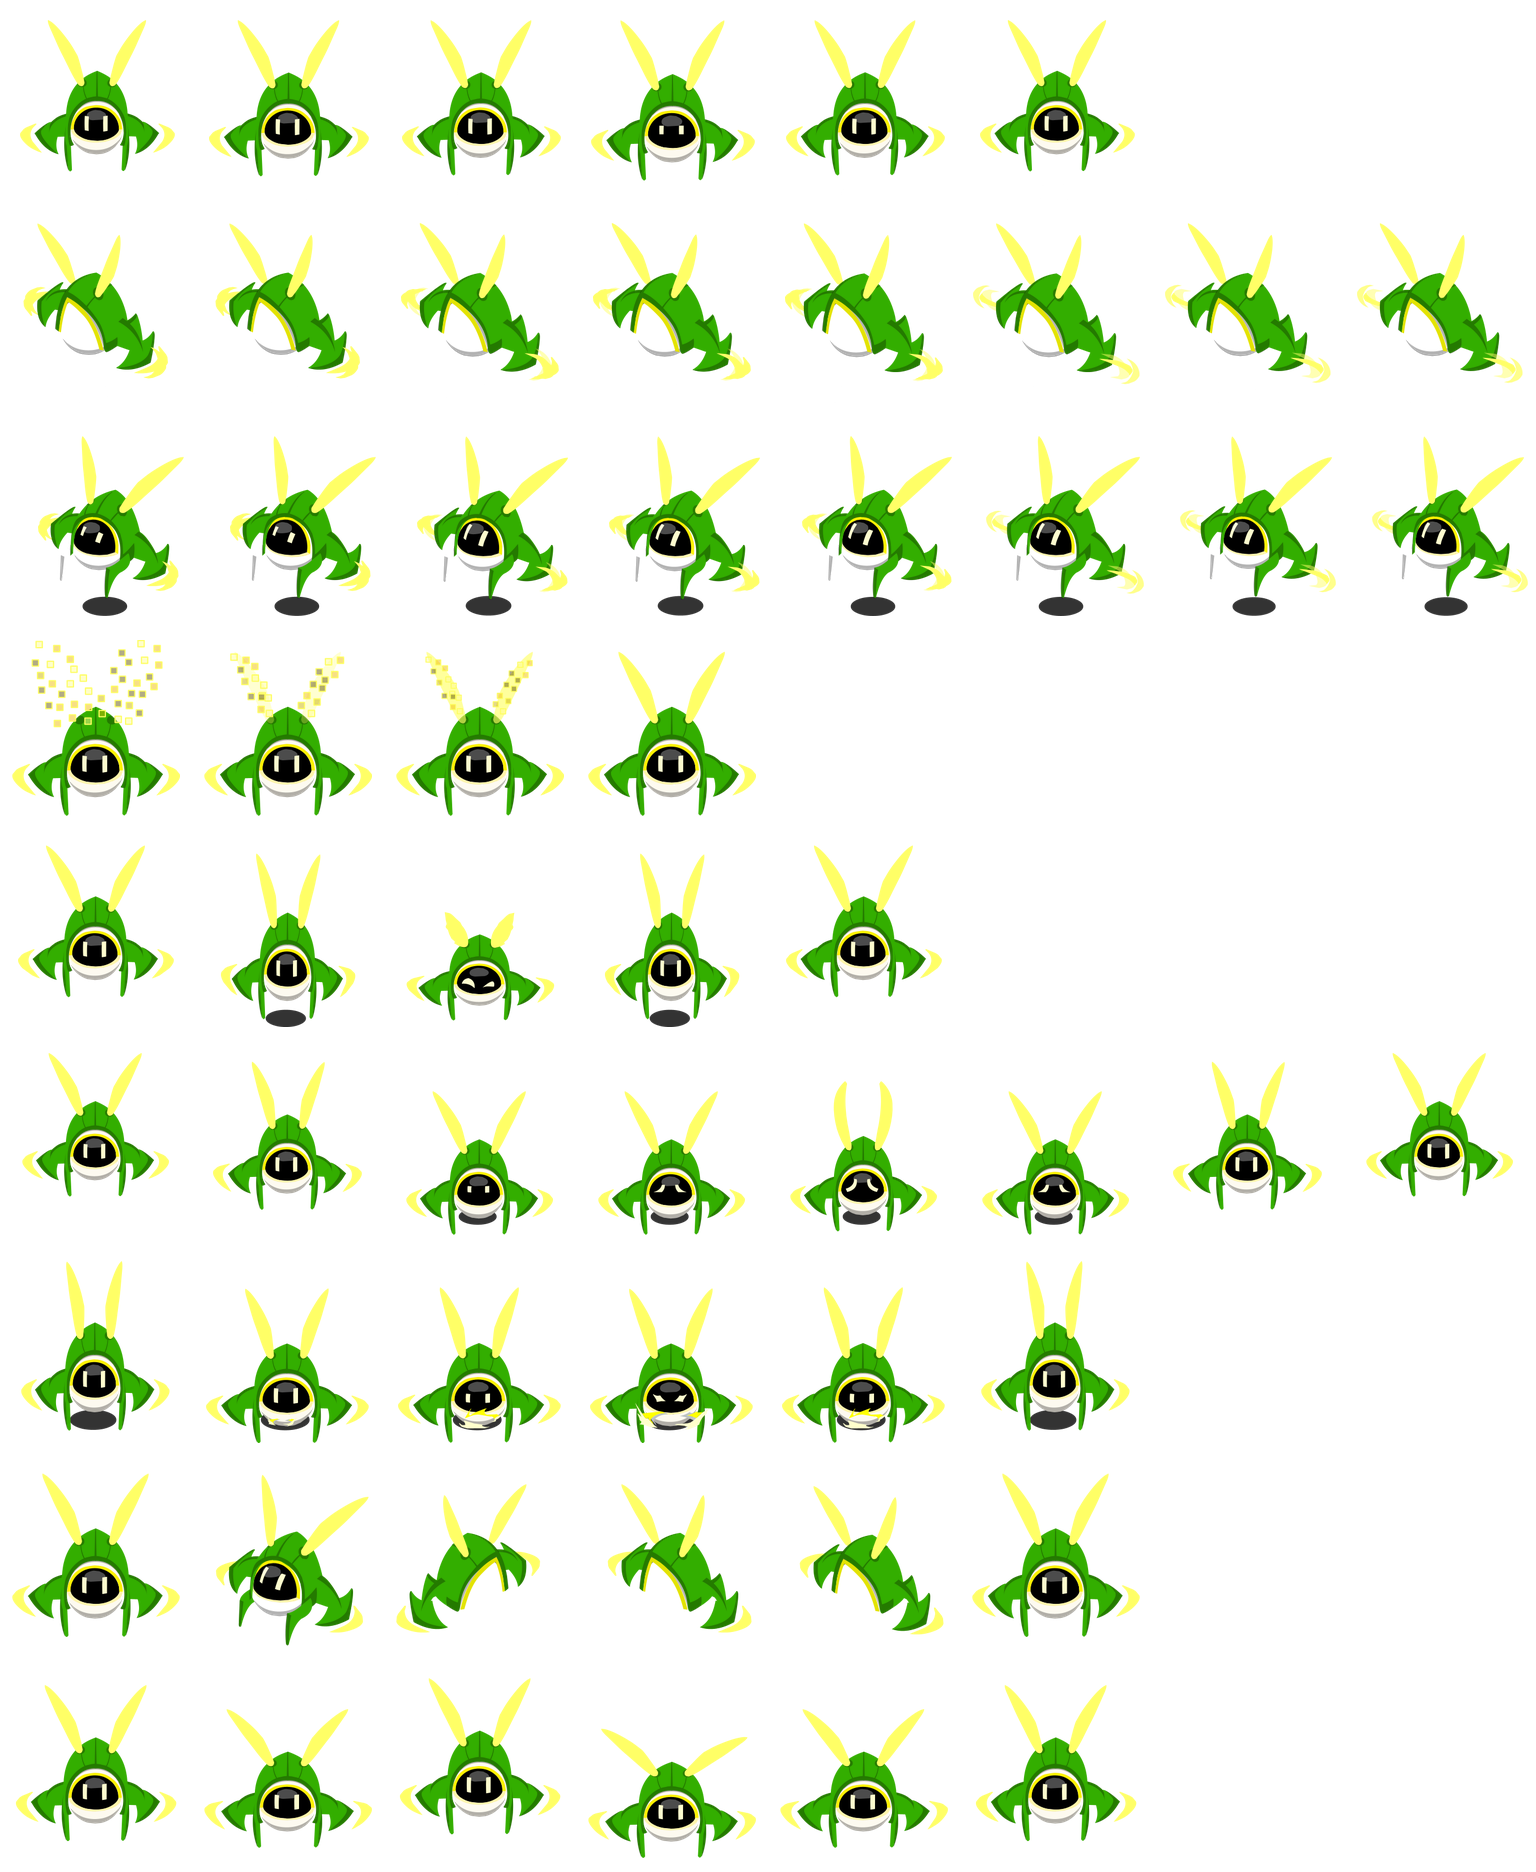
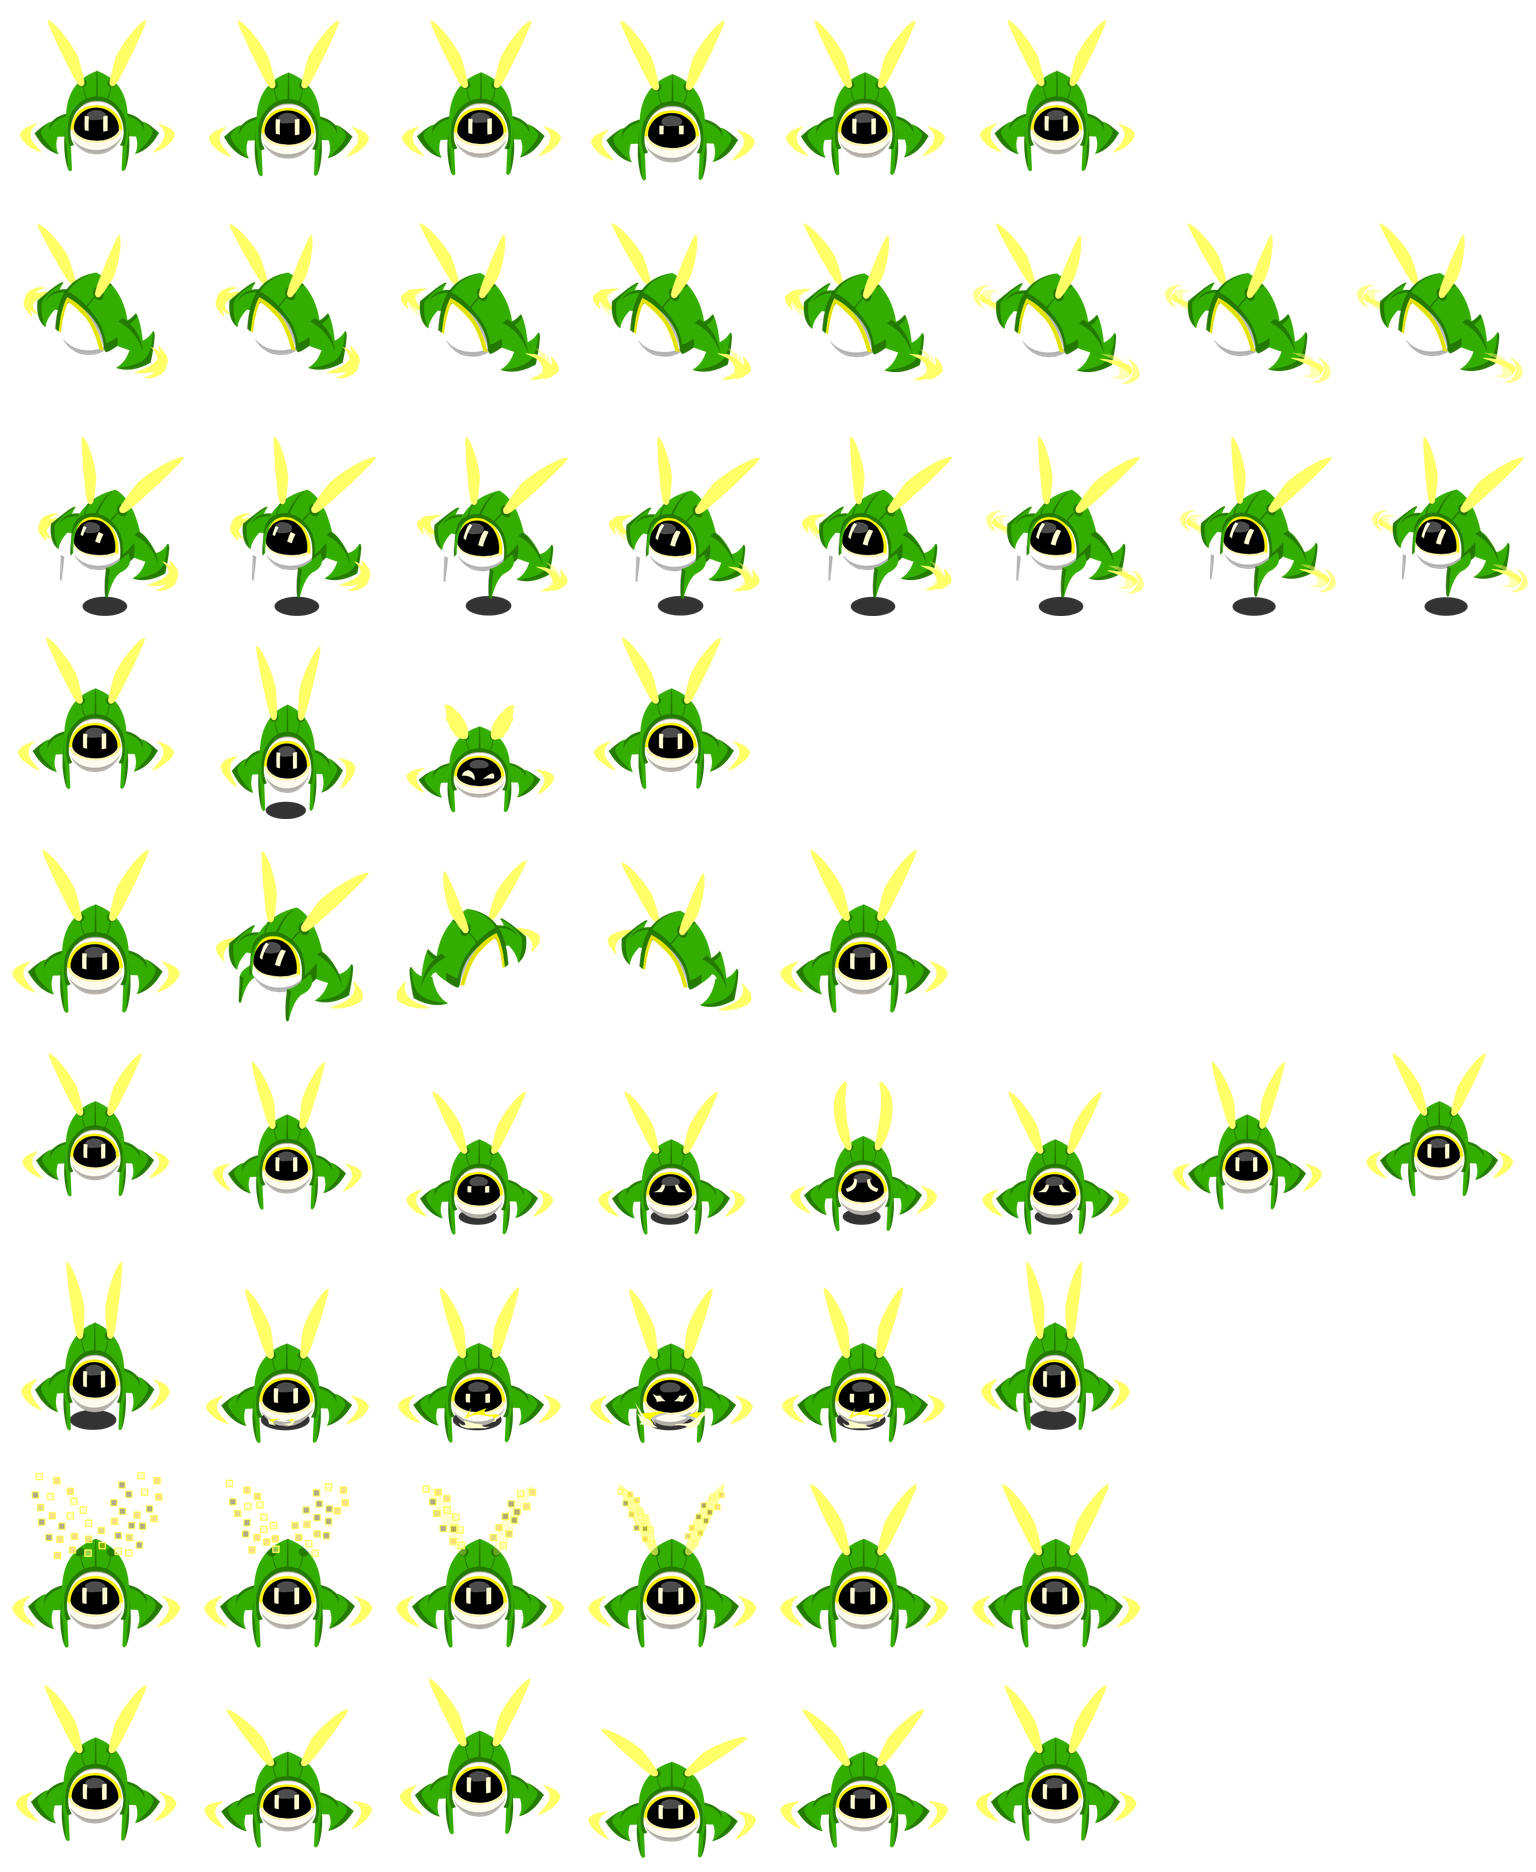
Rotate Annual NoNo work greeting and hover animations

Changed region(s): [[0.0, 0.3408, 0.625, 0.5577], [0.0, 0.7746, 0.75, 0.8985]]

diff --git a/index.html b/index.html
@@ -25,4 +25,4 @@
     <section class="install" id="ram-install"><details><summary>安装说明</summary><div class="install-content"><ol><li><span>1</span><div><h3>解压宠物包</h3><p>得到一个含有 <code>pet.json</code> 和 <code>spritesheet.png</code> 的拉姆文件夹。</p></div></li><li><span>2</span><div><h3>放进 Codex 的 pets 文件夹</h3><p>macOS / Linux：<code>~/.codex/pets/</code><br>Windows：<code>%USERPROFILE%\.codex\pets\</code><br>若设置过 <code>CODEX_HOME</code>，请使用它下面的 <code>pets</code> 文件夹。</p></div></li><li><span>3</span><div><h3>在设置里选中它</h3><p>打开 Codex 的「设置 → Pets / 宠物」，刷新列表后选择拉姆。输入 <code>/pet</code> 唤出它。</p></div></li></ol><button class="copy-button" id="ram-copy-prompt">复制安装提示词</button><p class="install-note">也可以将下载的精灵图上传到支持「Upload pet」的宠物界面。<a href="https://learn.chatgpt.com/docs/pets" target="_blank" rel="noreferrer">官方说明 ↗</a></p></div></details></section>
 </div><div id="nono-panel" role="tabpanel" aria-labelledby="tab-nono" hidden><section class="workbench" aria-label="超能NoNo宠物预览"><div class="preview-panel" id="nono-preview-panel"><div class="preview-top"><span class="caps">安装效果预览</span><button id="nono-background" class="small-button" aria-label="切换深浅预览背景">◐ <span>深色背景</span></button></div><div class="pet-stage"><span class="pet-label" id="nono-pet-label">超能 NoNo</span><canvas id="nono-pet" width="576" height="624" role="img" aria-label="超能NoNo动画预览"></canvas></div><div class="preview-bottom"><span><i class="live-dot"></i><span id="nono-state-label">待机中</span></span><button id="nono-pause" class="small-button" aria-pressed="false">Ⅱ 暂停动画</button></div></div>
 <div class="controls nono-controls"><div class="section-heading"><h2>形态</h2></div><div class="forms nono-forms" role="group" aria-label="NoNo版本"><button class="form" data-form="nono-normal" aria-pressed="false"><strong>普通 NoNo</strong></button><button class="form active" data-form="nono" aria-pressed="true"><strong>超能 NoNo</strong></button><button class="form" data-form="nono-annual" aria-pressed="false"><strong>至尊 NoNo</strong></button></div><div class="divider"></div><div id="nono-colors-section"><div class="section-heading"><h2>颜色</h2></div><div class="colors" id="nono-colors" role="group" aria-label="NoNo颜色"></div><div class="divider"></div></div><div class="section-heading"><h2>动作</h2><a class="action-library-link" href="ram-library.html">查看原动作 ↗</a></div><div class="states" role="group" aria-label="预览动作"><button data-state="idle" class="selected" aria-pressed="true">待命</button><button data-state="waving" aria-pressed="false">开机</button><button data-state="jumping" aria-pressed="false">惊讶</button><button data-state="running" aria-pressed="false">玩魔方</button><button data-state="waiting" aria-pressed="false">充电</button><button data-state="review" aria-pressed="false">开心</button><button data-state="running-left" aria-pressed="false">向左</button><button data-state="running-right" aria-pressed="false">向右</button><button data-state="failed" aria-pressed="false">悲哀</button></div><p class="hint" style="margin-top:12px">动作播放三遍后回到待机，点击动作可重播。</p><div class="download-area"><div class="install-actions"><button class="command-action" id="nono-copy-command" aria-label="复制安装命令"><span class="command-header"><span class="terminal-title">命令安装 </span><span class="copy-feedback"><span class="copy-status" role="status" aria-live="polite">复制</span><svg class="copy-icon" viewBox="0 0 20 20" width="16" height="16" fill="none" stroke="currentColor" stroke-width="1.4" aria-hidden="true"><rect x="7" y="7" width="10" height="11" rx="2"/><path d="M12 4V3a1 1 0 0 0-1-1H4a2 2 0 0 0-2 2v8a1 1 0 0 0 1 1h1"/></svg></span></span><span class="command-line"><span class="shell-prompt" aria-hidden="true">$</span><code id="nono-install-command">npx --yes github:mli55/taomi-codex-pets --pet nono</code></span></button><button class="download" id="nono-download" disabled><span>↓</span> <span>下载 ZIP</span> </button></div><div class="download-meta"><span></span><button class="text-button" id="nono-download-png" disabled>下载 PNG</button></div><p id="nono-download-status" class="download-status" role="status"></p></div></div></section>    <section class="install" id="nono-install"><details><summary>安装说明</summary><div class="install-content"><ol><li><span>1</span><div><h3>解压宠物包</h3><p>得到一个含有 <code>pet.json</code> 和 <code>spritesheet.png</code> 的NoNo文件夹。</p></div></li><li><span>2</span><div><h3>放进 Codex 的 pets 文件夹</h3><p>macOS / Linux：<code>~/.codex/pets/</code><br>Windows：<code>%USERPROFILE%\.codex\pets\</code><br>若设置过 <code>CODEX_HOME</code>，请使用它下面的 <code>pets</code> 文件夹。</p></div></li><li><span>3</span><div><h3>在设置里选中它</h3><p>打开 Codex 的「设置 → Pets / 宠物」，刷新列表后选择NoNo。输入 <code>/pet</code> 唤出它。</p></div></li></ol><button class="copy-button" id="nono-copy-prompt">复制安装提示词</button><p class="install-note">也可以将下载的精灵图上传到支持「Upload pet」的宠物界面。<a href="https://learn.chatgpt.com/docs/pets" target="_blank" rel="noreferrer">官方说明 ↗</a></p></div></details></section>
-</div></main><footer><p>非官方项目 · 游戏素材版权归原权利方所有</p></footer><script src="pet-playback.js?v=animation-review2" defer></script><script src="ram.js?v=animation-review2" defer></script><script src="nono.js?v=nono-native-eyes2" defer></script><script src="app.js" defer></script></body></html>
+</div></main><footer><p>非官方项目 · 游戏素材版权归原权利方所有</p></footer><script src="pet-playback.js?v=animation-review2" defer></script><script src="ram.js?v=animation-review2" defer></script><script src="nono.js?v=annual-state-swap1" defer></script><script src="app.js" defer></script></body></html>

diff --git a/nono.js b/nono.js
@@ -60,7 +60,7 @@ async function loadForm(next){
   try{
     let images=imageCache.get(assetKey);
     if(!images){
-      images=await Promise.all([assetKey+'.png'].map(async file=>{const image=new Image();image.src='assets/'+file+'?v=nono-native-eyes2';await image.decode();if(image.naturalWidth!==1536||image.naturalHeight!==1872)throw Error('宠物图集尺寸不正确');return image;}));
+      images=await Promise.all([assetKey+'.png'].map(async file=>{const image=new Image();image.src='assets/'+file+'?v=annual-state-swap1';await image.decode();if(image.naturalWidth!==1536||image.naturalHeight!==1872)throw Error('宠物图集尺寸不正确');return image;}));
       imageCache.set(assetKey,images);
     }
     if(request!==generation)return;
